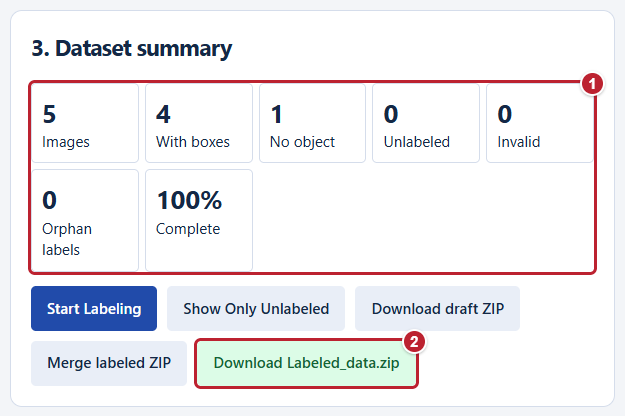
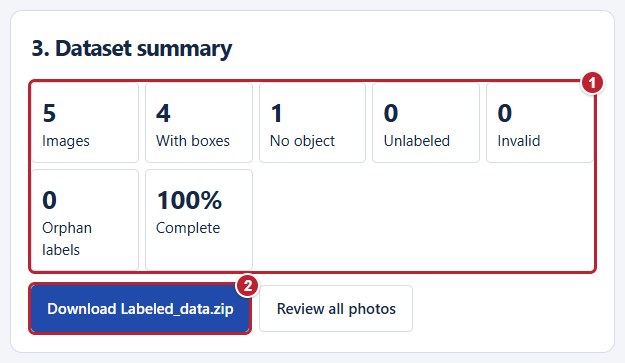
Guide dataset actions by labeling progress

diff --git a/index.html b/index.html
@@ -175,6 +175,8 @@ select {
 .stat b { display: block; font-size: 1.6rem; }
 
 .actions { display: flex; flex-wrap: wrap; gap: 10px; margin-top: 14px; }
+.resume-later { border-top:1px solid var(--line); margin-top:18px; padding-top:12px; }
+.resume-later p { margin:0 0 8px; }
 
 .progress { height: 12px; background: #e4e9f1; border-radius: 999px; overflow: hidden; }
 .progress > div { height: 100%; background: var(--primary); width: 0; }
@@ -644,8 +646,12 @@ figcaption { margin-top:5px; line-height:1.25; }
       <h2>1. Dataset structure</h2>
       <div id="datasetName" class="small"></div>
       <div id="checklist" class="checklist"></div>
-      <button id="addPhotosBtn" class="ghost hidden">Add photos</button>
       <div id="structureActions" class="actions"></div>
+      <div class="actions">
+        <button id="addPhotosBtn" class="ghost hidden">Add photos</button>
+        <button id="importLabelsBtn" class="ghost hidden" aria-describedby="importLabelsHint">Import labeled ZIP</button>
+      </div>
+      <p id="importLabelsHint" class="small hidden">Add labeled photos to this dataset. Class names and order must match.</p>
       <div id="structureNotice"></div>
     </div>
 
@@ -665,7 +671,16 @@ figcaption { margin-top:5px; line-height:1.25; }
         <h2>3. Dataset summary</h2>
         <div id="summaryStats" class="stats"></div>
         <div id="summaryIssues"></div>
-        <div id="summaryActions" class="actions"></div>
+        <div id="summaryActions" class="actions">
+          <button id="trainingZipBtn" class="primary hidden">Download Labeled_data.zip</button>
+          <button id="remainingBtn" class="primary hidden">Label remaining photos</button>
+          <button id="invalidBtn" class="danger hidden">Review invalid files</button>
+          <button id="labelAllBtn" class="primary">Start Labeling</button>
+        </div>
+        <div id="resumeLater" class="resume-later hidden">
+          <p class="small"><b>Pausing here?</b> Download a draft and reopen it later with <b>Open a ZIP</b>.</p>
+          <button id="summaryDraftBtn" class="ghost">Download draft ZIP</button>
+        </div>
       </div>
     </div>
 
@@ -2177,6 +2192,7 @@ figcaption { margin-top:5px; line-height:1.25; }
         this.needsDownload = false;
         if (this.draftDownload) {
           $('downloadDialog').close();
+          if (!$('setup').classList.contains('hidden')) this.renderSummary();
           return;
         }
         $('downloadTitle').textContent = 'Ready for training.';
@@ -2207,6 +2223,15 @@ figcaption { margin-top:5px; line-height:1.25; }
       $('saveSuggestions').onclick = () => this.ann.finishSuggestionReview(true);
       $('discardSuggestions').onclick = () => this.ann.finishSuggestionReview(false);
       $('draftBtn').onclick = () => this.exportZip(true);
+      $('summaryDraftBtn').onclick = () => this.exportZip(true);
+      $('trainingZipBtn').onclick = () => this.exportZip();
+      $('labelAllBtn').onclick = () => this.start('all');
+      $('remainingBtn').onclick = () => this.start('unlabeled');
+      $('invalidBtn').onclick = () => this.start('invalid');
+      $('importLabelsBtn').onclick = () => {
+        if (this.classEdits) return this.toast('Save Classes before importing a labeled ZIP.', true);
+        $('zipInput').click();
+      };
       $('repairBtn').onclick = () => this.ann.saveEdits();
       $('browseImages').onclick = () => this.showImageBrowser(!$('imageBrowser').classList.contains('open'));
       $('photosBtn').onclick = () => $('photosInput').click();
@@ -2445,6 +2470,9 @@ figcaption { margin-top:5px; line-height:1.25; }
     // --- Setup screen: structure ------------------------------------------
     renderStructure() {
       $('addPhotosBtn').classList.toggle('hidden', this.store.mode !== 'memory');
+      const canImport = Object.values(this.model.structure).every(Boolean) && this.model.classes.length > 0;
+      $('importLabelsBtn').classList.toggle('hidden', !canImport);
+      $('importLabelsHint').classList.toggle('hidden', !canImport);
       $('datasetName').textContent =
         `Dataset: ${this.store.name} · ${this.store.mode === 'direct' ? 'Direct folder mode' : 'Compatibility mode'}`;
 
@@ -2630,37 +2658,22 @@ figcaption { margin-top:5px; line-height:1.25; }
         issues.append(el('div', t.trim(), 'errorbox'));
       }
 
-      const a = $('summaryActions');
-      a.replaceChildren();
-
-      const actions = [
-        ['Start Labeling', 'all', 'primary'],
-        ['Show Only Unlabeled', 'unlabeled', '']
-      ];
-      if (s.invalid) actions.push(['Show Invalid Files', 'invalid', 'danger']);
-
-      for (const [text, filter, className] of actions) {
-        const button = el('button', text, className);
-        button.onclick = () => this.start(filter);
-        a.append(button);
-      }
-
-      const draft = el('button', 'Download draft ZIP');
-      draft.onclick = () => this.exportZip(true);
-      a.append(draft);
-      const importButton = el('button', 'Merge labeled ZIP');
-      importButton.onclick = () => {
-        if (this.classEdits) return this.toast('Save Classes before merging.', true);
-        $('zipInput').click();
-      };
-      a.append(importButton);
-
-      const ex = el('button', 'Download Labeled_data.zip', 'success');
-      ex.onclick = () => this.exportZip();
-      a.append(ex);
+      const classes = this.model.classes;
+      const canArchive = s.total > 0 && classes.length > 0 && new Set(classes).size === classes.length
+        && !s.orphans && !this.model.duplicates.length;
+      const ready = canArchive && !s.unlabeled && !s.invalid;
+      const started = s.total > s.unlabeled;
+      $('trainingZipBtn').classList.toggle('hidden', !ready);
+      $('remainingBtn').classList.toggle('hidden', !started || !s.unlabeled);
+      $('remainingBtn').textContent = `Label remaining photos (${s.unlabeled})`;
+      $('invalidBtn').classList.toggle('hidden', !s.invalid);
+      $('labelAllBtn').textContent = started ? 'Review all photos' : 'Start Labeling';
+      $('labelAllBtn').className = started ? 'ghost' : 'primary';
+      const offerDraft = this.store.mode === 'memory' && this.needsDownload && canArchive && !ready;
+      $('resumeLater').classList.toggle('hidden', !offerDraft);
 
       const card = $('completionCard');
-      if (s.total && !s.unlabeled && !s.invalid && !s.orphans && !this.model.duplicates.length) {
+      if (ready) {
         card.classList.remove('hidden');
         const counts = this.model.classes.map((n, id) =>
           `${id}: ${n} — ${this.model.images.reduce((q, i) => q + i.boxes.filter(b => b.classId === id).length, 0)}`

diff --git a/tests/test_review.py b/tests/test_review.py
@@ -39,8 +39,9 @@ def validate_review(browser, site):
     expect(page.get_by_role('alert')).to_contain_text('matching image')
     upload({**img,'labels/a.txt':'7 0.5 0.5 0.2 0.2'})
     expect(page.locator('#summaryIssues')).to_contain_text('a.png')
-    page.get_by_role('button',name='Download Labeled_data.zip',exact=True).click()
-    expect(page.get_by_role('alert')).to_contain_text('Export blocked')
+    expect(page.locator('#trainingZipBtn')).to_be_hidden()
+    page.get_by_role('button', name='Review invalid files').click()
+    expect(page.locator('#statusFilter')).to_have_value('invalid')
     reset()
     upload({**img,'images/b.png':sample,'labels/b.txt':''})
     expect(page.locator('#datasetName')).to_contain_text('review')
@@ -49,11 +50,25 @@ def validate_review(browser, site):
         for name, value in {'classes.txt':'blue_disc\n', 'images/x.png':sample,
                             'images/X.jpg':sample, 'labels/x.txt':''}.items():
             z.writestr(name, value)
-    page.locator('#zipInput').set_input_files({
+    with page.expect_file_chooser() as picker:
+        page.get_by_role('button', name='Import labeled ZIP').click()
+    picker.value.set_files({
         'name':'ambiguous.zip', 'mimeType':'application/zip', 'buffer':ambiguous.getvalue()})
     expect(page.get_by_role('alert')).to_contain_text('one matching image')
     expect(page.locator('#summaryStats .stat').first).to_have_text('2Images')
-    page.get_by_text('Start Labeling',exact=True).click()
+    expect(page.locator('#summaryDraftBtn')).to_be_hidden()
+    page.locator('#classList input').fill('disc')
+    page.locator('#saveClassesBtn').click()
+    with page.expect_download() as draft:
+        page.locator('#summaryDraftBtn').click()
+    assert draft.value.suggested_filename == 'Labeler-draft.zip'
+    page.locator('#confirmDownload').click()
+    expect(page.locator('#summaryDraftBtn')).to_be_hidden()
+    page.get_by_role('button',name='Label remaining photos (1)',exact=True).click()
+    expect(page.locator('#statusFilter')).to_have_value('unlabeled')
+    expect(page.locator('#imageList button')).to_have_count(1)
+    page.locator('#backSetupBtn').click()
+    page.get_by_role('button',name='Review all photos',exact=True).click()
     expect(page.locator('#imageList .current')).to_contain_text('Unlabeled')
     page.locator('#nextBtn').click()
     expect(page.locator('#imageList .current')).to_contain_text('No Object')

diff --git a/tests/test_folder.py b/tests/test_folder.py
@@ -71,6 +71,7 @@ def check(browser):
     expect(page.locator('.entry-actions .primary')).to_have_count(1)
     folder.click()
     expect(page.locator('#checklist .missing')).to_have_count(3)
+    expect(page.locator('#importLabelsBtn')).to_be_hidden()
     page.get_by_role('button', name='Create Missing Items').click()
     expect(page.locator('#checklist .ok')).to_have_count(3)
     page.evaluate("""async bytes => {
@@ -88,6 +89,8 @@ def check(browser):
     page.locator('#addClassBtn').click()
     page.locator('#classList input').fill('disc')
     page.locator('#saveClassesBtn').click()
+    expect(page.locator('#importLabelsBtn')).to_be_visible()
+    expect(page.locator('#summaryDraftBtn')).to_be_hidden()
     page.get_by_role('button', name='Start Labeling', exact=True).click()
     page.evaluate("""() => {
         const proto = FileSystemFileHandle.prototype;

diff --git a/tests/test_annotation.py b/tests/test_annotation.py
@@ -118,7 +118,7 @@ def check_session(browser, site, width, height, touch):
     restored.goto(site)
     restored.locator('#zipImagesInput').set_input_files({
         'name':'Labeler-draft.zip', 'mimeType':'application/zip', 'buffer':draft_bytes.getvalue()})
-    restored.get_by_role('button', name='Start Labeling', exact=True).click()
+    restored.get_by_role('button', name='Review all photos', exact=True).click()
     expect(restored.locator('#boxList .box-row')).to_have_count(2)
     restored.locator('#nextBtn').click()
     expect(restored.locator('#saveState')).to_have_text('Not reviewed')

diff --git a/tests/test_studio.py b/tests/test_studio.py
@@ -73,7 +73,7 @@ def run(browser):
     expect(page.locator('#summaryStats .stat').first).to_have_text('2Images')
     page.reload()
     drop(page, [dataset])
-    page.get_by_role('button', name='Start Labeling', exact=True).click()
+    page.get_by_role('button', name='Review all photos', exact=True).click()
     first = page.locator('#imageList button').first
     expect(first.locator('img')).to_have_js_property('complete', True)
     page.wait_for_function('document.querySelector("#imageList img").naturalWidth > 0')

diff --git a/README.md b/README.md
@@ -31,7 +31,7 @@ Use these five photos to practice labeling `bolt` and `hex_nut`. Choose the work
 
 | Labeler button | Download | What to do |
 |---|---|---|
-| **Open a ZIP** | [Nearly finished dataset ZIP](https://active-learning-kyle.github.io/yolo-dataset-labeler/examples/fasteners/fastener-labeled-dataset.zip) | Select the downloaded ZIP as-is. Four photos already have boxes. Click **Show Only Unlabeled** and review the washers photo, then try the final export. |
+| **Open a ZIP** | [Nearly finished dataset ZIP](https://active-learning-kyle.github.io/yolo-dataset-labeler/examples/fasteners/fastener-labeled-dataset.zip) | Select the downloaded ZIP as-is. Four photos already have boxes. Click **Label remaining photos (1)** to open the washers photo, then try the final export. |
 | **Start with my photos** | [Unlabeled photos](https://active-learning-kyle.github.io/yolo-dataset-labeler/examples/fasteners/fastener-photos.zip) | Unzip the download. Select the five JPGs inside **Fastener-Photos**, using your photo library or file picker. Add `bolt` first and `hex_nut` second, click **Save Classes**, then **Start Labeling**. |
 
 The washers photo contains neither target class. Use **Confirm no object** after checking it. When every photo has been reviewed, open **Dataset summary** and download **Labeled_data.zip**. Keep the photo credits from the pack with any copy you share. [Photo sources and licenses](docs/guide/photo-credits.md)
@@ -66,7 +66,7 @@ A class is an object type. Use a distinct, non-empty name for each one. The numb
 **1** Add a row for each object type. **2** Save your class names. **3** Open the workbench.
 
 - Before labeling, use **↑** to move a class up or **Delete** to remove it. Once images have labels, the order and delete controls lock so existing IDs keep their meaning. You can still append another class.
-- To combine a teammate’s work with yours, save your classes, then choose **Merge labeled ZIP** in **Dataset summary**. Both lists must have identical names in identical order. The labeler imports image–label pairs, keeps reviewed backgrounds and reports any images skipped for missing labels. If a pair’s filename is already in use, both incoming files get a matching new name.
+- To open a ZIP as its own dataset, choose **Open a ZIP** on the home screen. To add labeled photos to the dataset you already have open, save your classes and choose **Import labeled ZIP** under **Dataset structure**. The class names and order must match. The labeler keeps reviewed backgrounds, skips photos without a label file and renames incoming pairs when a filename is taken.
 
 ## Use the annotation workbench
 
@@ -83,7 +83,7 @@ The numbers in the [workbench screenshot above](#yolo-dataset-labeler) show **1*
 
 ### Get suggestions for a photo
 
-1. In the regular labeler, save your classes and click **Start Labeling**. Open an unlabeled photo. Use descriptive class names such as `bolt` and `hex_nut`.
+1. Save your classes and click **Start Labeling**, or choose **Label remaining photos** in a partly reviewed dataset. Open an unlabeled photo. Use descriptive class names such as `bolt` and `hex_nut`.
 2. If you want suggestions, click **Suggest boxes** in the toolbar above the photo, beside the drawing controls. First use downloads about 155 MB of model weights. The browser processes your photos on your device. Use **Cancel** if you want to carry on by hand.
 3. Check each dashed box. Choose its class in the menu beside that box under **Bounding boxes**. Use **Edit** to move or resize a box, **Delete** to remove one, and **Draw** to add any missed objects. The number marked **AI** is the model's score for its original suggestion.
 4. Click **Save reviewed boxes** when the whole photo is ready. To start over, click **Discard suggestions**. If the model suggests nothing, check the photo yourself, then draw boxes or use **Confirm no object** as appropriate.
@@ -98,7 +98,9 @@ The model is [OWL-ViT](https://huggingface.co/google/owlvit-base-patch32), using
 
 ## Review, save and resume
 
-**Dataset summary** shows image counts, completion and issues. Use **Show Only Unlabeled** to finish a set, or **Show Invalid Files** to inspect errors. When review is complete, **Labeling finished** shows total boxes and counts per class.
+In **Dataset summary**, choose **Start Labeling** for a fresh set. When a set is partly reviewed, **Label remaining photos** opens the first unlabeled photo and filters the list to the number shown. Choose **Review all photos** to revisit earlier work. **Review invalid files** appears when a label needs repair. Once the dataset is ready, **Download Labeled_data.zip** appears and **Labeling finished** shows totals per class.
+
+![A dataset with one photo left. The numbered controls open the remaining photo, review all five photos or save a draft to resume later.](docs/guide/09-resume-labeling.png)
 
 | Status or message | What it means and what to do |
 |---|---|
